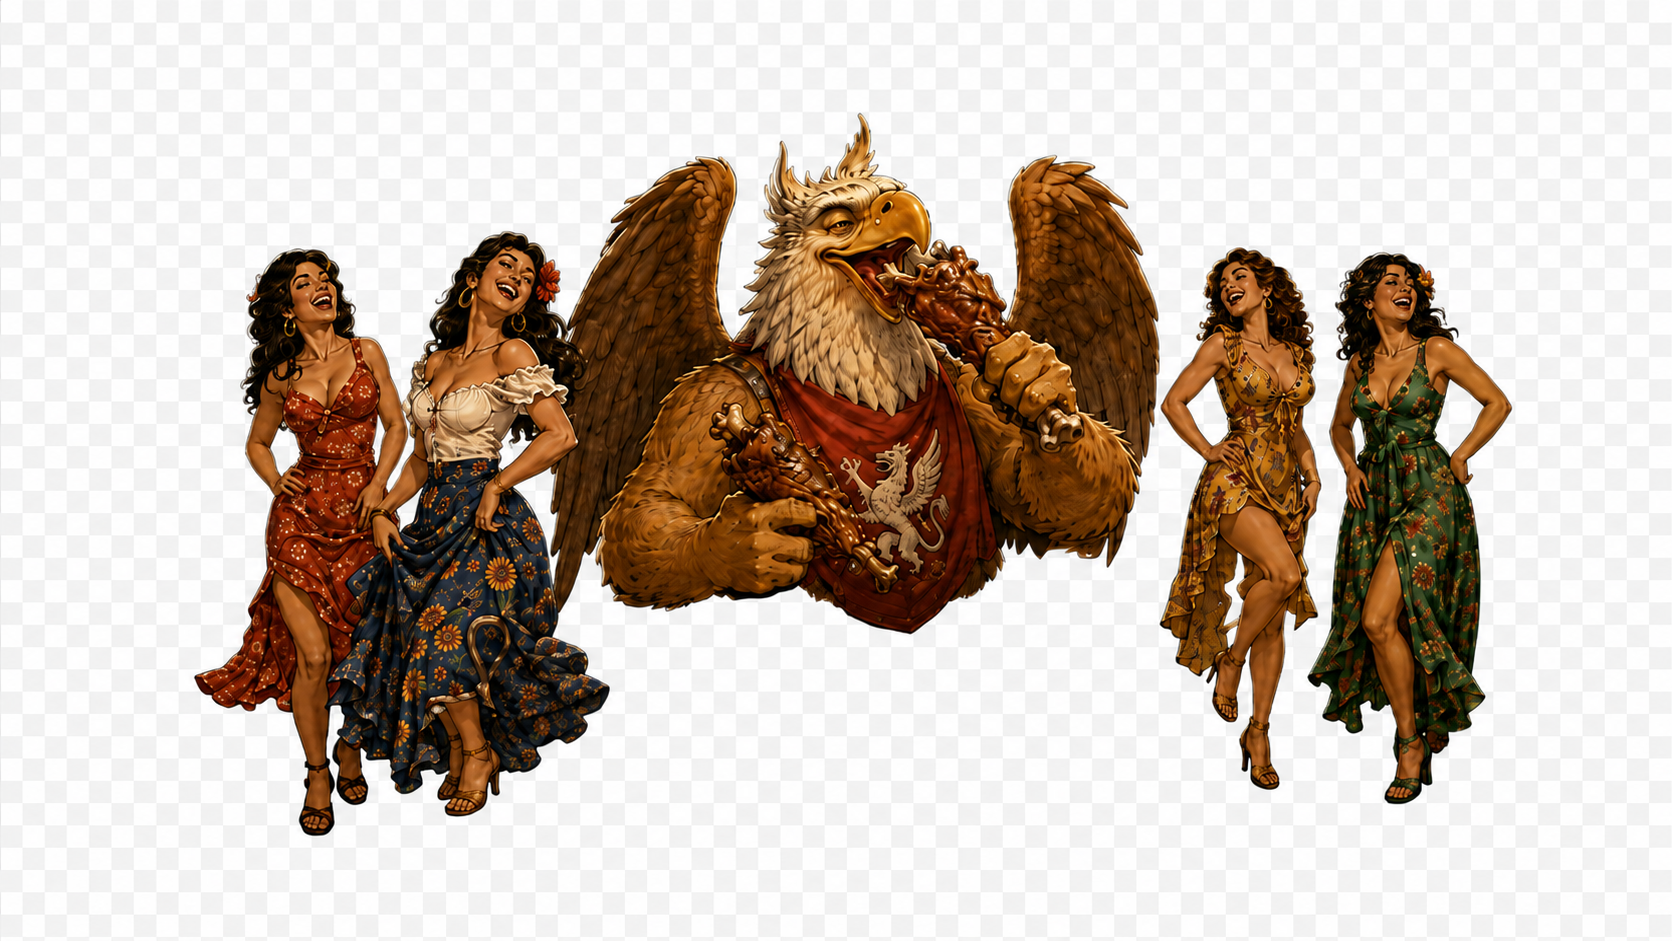
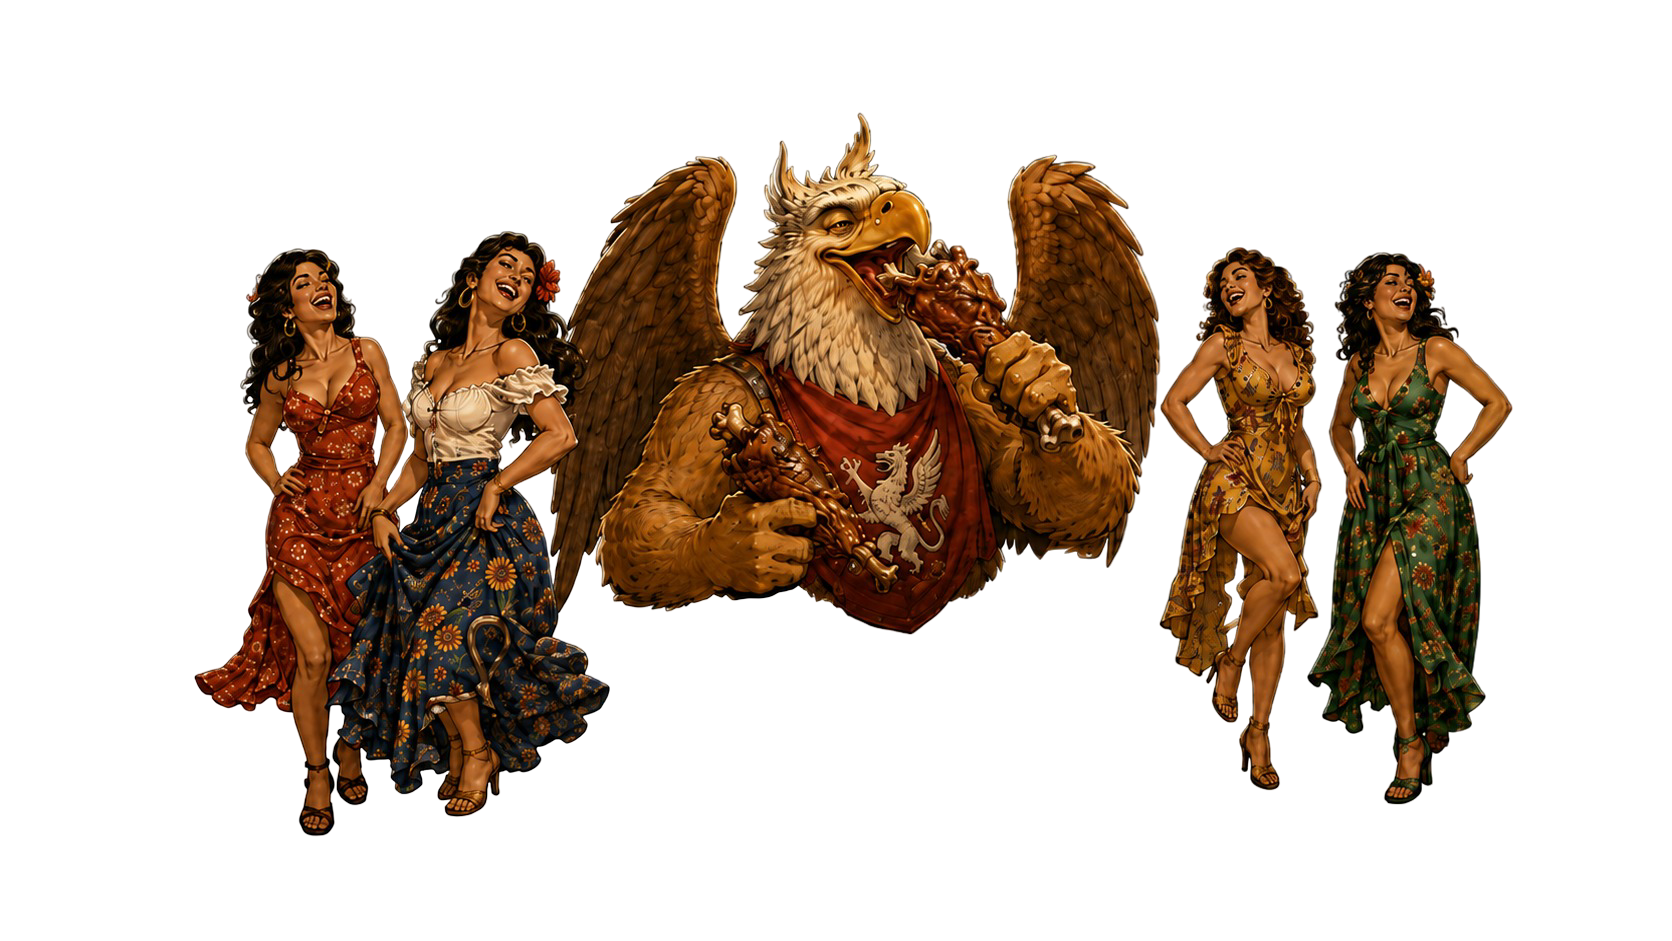
.

Changed region(s): [[0.2488, 0.6472, 0.2799, 0.7088], [0.2799, 0.5855, 0.311, 0.6164], [0.2177, 0.4623, 0.2488, 0.4931]]

diff --git a/index.html b/index.html
@@ -1,66 +1,69 @@
 <!doctype html>
 <html lang="it">
-  <head>
-    <meta charset="utf-8" />
-    <meta name="viewport" content="width=device-width, initial-scale=1" />
-    <title>Sagre Perugia 2026</title>
-    <meta
-      name="description"
-      content="Sagre, feste popolari ed eventi paesani a Perugia e dintorni nel 2026."
-    />
-    <link rel="preload" href="assets/sagra-perugia.png" as="image" />
-    <link rel="preload" href="assets/background-sagra-perugia.png" as="image" />
-    <link rel="stylesheet" href="styles.css" />
-  </head>
-  <body>
-    <header class="topbar">
-      <a class="brand" href="#top" aria-label="Sagre Perugia 2026">
-        <span class="brand-mark">PG</span>
-        <span>Sagre Perugia 2026</span>
-      </a>
 
-      <form class="search-form" role="search">
-        <label class="sr-only" for="search">Cerca sagre</label>
-        <input
-          id="search"
-          name="search"
-          type="search"
-          autocomplete="off"
-          placeholder="Cerca sagre, località, date"
-        />
-      </form>
+<head>
+  <meta charset="utf-8" />
+  <meta name="viewport" content="width=device-width, initial-scale=1" />
+  <title>Sagre Perugia 2026</title>
+  <meta name="description" content="Sagre, feste popolari ed eventi paesani a Perugia e dintorni nel 2026." />
+  <link rel="preload" href="assets/sagra-perugia.png" as="image" />
+  <link rel="preload" href="assets/background-sagra-perugia.png" as="image" />
+  <link rel="stylesheet" href="styles.css" />
+</head>
 
-      <div class="status-filters" aria-label="Filtra eventi per stato">
-        <button class="filter-button filter-past" type="button" data-status="past" aria-pressed="false">
-          <span id="past-count">0 passati</span>
-        </button>
-        <button class="filter-button filter-active" type="button" data-status="active" aria-pressed="true">
-          <span id="active-count">0 in corso</span>
-        </button>
-        <button class="filter-button filter-future" type="button" data-status="future" aria-pressed="true">
-          <span id="future-count">0 futuri</span>
-        </button>
+<body>
+  <header class="topbar">
+    <a class="brand" href="#top" aria-label="Sagre Perugia 2026">
+      <span class="brand-mark">PG</span>
+      <span>Sagre Perugia 2026</span>
+    </a>
+
+    <form class="search-form" role="search">
+      <label class="sr-only" for="search">Cerca sagre</label>
+      <input id="search" name="search" type="search" autocomplete="off" placeholder="Cerca sagre, località, date" />
+    </form>
+
+    <div class="status-filters" aria-label="Filtra eventi per stato">
+      <button class="filter-button filter-past" type="button" data-status="past" aria-pressed="false">
+        <span id="past-count">0 passati</span>
+      </button>
+      <button class="filter-button filter-active" type="button" data-status="active" aria-pressed="true">
+        <span id="active-count">0 in corso</span>
+      </button>
+      <button class="filter-button filter-future" type="button" data-status="future" aria-pressed="true">
+        <span id="future-count">0 futuri</span>
+      </button>
+    </div>
+  </header>
+
+  <main id="top">
+    <section class="hero" id="hero">
+      <div class="hero-parallax" aria-hidden="true">
+        <img class="parallax-layer parallax-bg" src="assets/3.png" alt="" data-depth="0.01" />
+        <img class="parallax-layer parallax-stalls" src="assets/1.png" alt="" data-depth="0.20" />
+        <img class="parallax-layer parallax-grifo" src="assets/0.png" alt="" data-depth="0.40" />
+        <img class="parallax-layer parallax-table" src="assets/2.png" alt="" data-depth="1.00" />
       </div>
-    </header>
 
-    <main id="top">
-      <section class="hero" aria-labelledby="page-title">
-        <div class="hero-content">
-          <p class="eyebrow">Perugia e dintorni</p>
-          <h1 id="page-title">Sagre, feste ed eventi popolari 2026</h1>
-          <p class="hero-copy">Forza grifo, dio schifo!</p>
-        </div>
-      </section>
+      <div class="hero-shade" aria-hidden="true"></div>
 
-      <section class="content" aria-live="polite">
-        <div class="cards-grid" id="events"></div>
+      <div class="hero-content">
+        <p class="eyebrow">Perugia e dintorni</p>
+        <h1>Sagre, feste ed eventi popolari 2026</h1>
+        <p class="hero-copy">Forza grifo, dio schifo!</p>
+      </div>
+    </section>
 
-        <p class="empty-state" id="empty-state" hidden>
-          Nessun evento trovato.
-        </p>
-      </section>
-    </main>
+    <section class="content" aria-live="polite">
+      <div class="cards-grid" id="events"></div>
 
-    <script src="app.js" defer></script>
-  </body>
+      <p class="empty-state" id="empty-state" hidden>
+        Nessun evento trovato.
+      </p>
+    </section>
+  </main>
+
+  <script src="app.js" defer></script>
+</body>
+
 </html>

diff --git a/styles.css b/styles.css
@@ -182,43 +182,95 @@ a {
 .hero {
   position: relative;
   display: grid;
-  min-height: min(760px, 72vh);
+  min-height: min(820px, 82vh);
   padding: calc(var(--topbar-height) + 48px) clamp(18px, 5vw, 72px) 56px;
   align-items: end;
   overflow: hidden;
   color: #fffaf0;
-  background: #1f1510;
+  background: #120c09;
+  isolation: isolate;
 }
 
-.hero::before,
-.hero::after {
+.hero-parallax {
   position: absolute;
   inset: 0;
-  content: "";
+  z-index: 0;
+  overflow: hidden;
   pointer-events: none;
 }
 
-.hero::before {
-  background:
-    linear-gradient(rgba(22, 13, 9, 0.24), rgba(22, 13, 9, 0.24)),
-    url("assets/sagra-perugia.png") center top / cover no-repeat;
-  filter: blur(24px);
-  opacity: 0.68;
-  transform: scale(1.05);
+/* Tutti i layer hanno la stessa canvas 16:9 */
+.parallax-layer {
+  position: absolute;
+  inset: 0;
+  width: 100%;
+  height: 100%;
+  object-fit: cover;
+  object-position: center top;
+  will-change: transform;
+  transform:
+    translate3d(
+      calc(var(--mouse-x, 0px) * var(--mouse-depth, 0)),
+      calc((var(--hero-scroll, 0) * var(--scroll-depth, 0)) + (var(--mouse-y, 0px) * var(--mouse-depth, 0))),
+      0
+    )
+    scale(var(--layer-scale, 1.04));
 }
 
-.hero::after {
-  background:
-    linear-gradient(90deg, rgba(22, 13, 9, 0.9), rgba(22, 13, 9, 0.56) 48%, rgba(22, 13, 9, 0.16)),
-    linear-gradient(0deg, rgba(22, 13, 9, 0.76), rgba(22, 13, 9, 0.04) 45%),
-    url("assets/sagra-perugia.png") center top / min(100vw, var(--hero-image-max)) auto no-repeat;
-  mask-image: linear-gradient(90deg, transparent 0, #000 11%, #000 89%, transparent 100%);
+/* Background: si muove pochissimo */
+.parallax-bg {
+  --scroll-depth: -24px;
+  --mouse-depth: 0.15;
+  --layer-scale: 1.06;
   z-index: 1;
+}
+
+/* Bancarelle: movimento medio */
+.parallax-stalls {
+  --scroll-depth: -52px;
+  --mouse-depth: 0.35;
+  --layer-scale: 1.055;
+  z-index: 2;
+}
+
+/* Grifo + ragazze */
+.parallax-grifo {
+  --scroll-depth: -82px;
+  --mouse-depth: 0.55;
+  --layer-scale: 1.045;
+  z-index: 3;
+}
+
+/* Tavoli/vecchietti: primo piano, movimento più evidente */
+.parallax-table {
+  --scroll-depth: -120px;
+  --mouse-depth: 0.75;
+  --layer-scale: 1.035;
+  z-index: 4;
+}
+
+.hero-shade {
+  position: absolute;
+  inset: 0;
+  z-index: 5;
+  pointer-events: none;
+  background:
+    linear-gradient(
+      90deg,
+      rgba(22, 13, 9, 0.9),
+      rgba(22, 13, 9, 0.58) 42%,
+      rgba(22, 13, 9, 0.18) 72%
+    ),
+    linear-gradient(
+      0deg,
+      rgba(22, 13, 9, 0.78),
+      rgba(22, 13, 9, 0.06) 52%
+    );
 }
 
 .hero-content {
   position: relative;
-  z-index: 2;
+  z-index: 6;
   width: min(660px, 100%);
   min-width: 0;
 }

diff --git a/app.js b/app.js
@@ -230,4 +230,78 @@ eventsContainer.addEventListener("click", (event) => {
   button.setAttribute("aria-expanded", String(!isOpen));
   map.hidden = isOpen;
 });
+
 init();
+
+function initHeroParallax() {
+  const hero = document.querySelector("#hero");
+  const layers = document.querySelectorAll(".parallax-layer");
+
+  if (!hero || layers.length === 0) {
+    return;
+  }
+
+  const prefersReducedMotion = window.matchMedia(
+    "(prefers-reduced-motion: reduce)"
+  ).matches;
+
+  if (prefersReducedMotion) {
+    return;
+  }
+
+  let ticking = false;
+  let mouseX = 0;
+  let mouseY = 0;
+
+  function updateParallax() {
+    const rect = hero.getBoundingClientRect();
+    const windowHeight = window.innerHeight || 1;
+
+    /*
+      progress:
+      0 circa quando l'hero è in posizione iniziale,
+      1 quando l'hero sta uscendo verso l'alto.
+    */
+    const progress = Math.min(
+      1,
+      Math.max(0, -rect.top / Math.max(1, rect.height - windowHeight * 0.25))
+    );
+
+    hero.style.setProperty("--hero-scroll", progress.toFixed(4));
+    hero.style.setProperty("--mouse-x", `${mouseX.toFixed(2)}px`);
+    hero.style.setProperty("--mouse-y", `${mouseY.toFixed(2)}px`);
+
+    ticking = false;
+  }
+
+  function requestUpdate() {
+    if (!ticking) {
+      ticking = true;
+      requestAnimationFrame(updateParallax);
+    }
+  }
+
+  window.addEventListener("scroll", requestUpdate, { passive: true });
+  window.addEventListener("resize", requestUpdate);
+
+  hero.addEventListener("pointermove", (event) => {
+    const rect = hero.getBoundingClientRect();
+    const x = (event.clientX - rect.left) / rect.width - 0.5;
+    const y = (event.clientY - rect.top) / rect.height - 0.5;
+
+    mouseX = x * 28;
+    mouseY = y * 18;
+
+    requestUpdate();
+  });
+
+  hero.addEventListener("pointerleave", () => {
+    mouseX = 0;
+    mouseY = 0;
+    requestUpdate();
+  });
+
+  updateParallax();
+}
+
+initHeroParallax();
